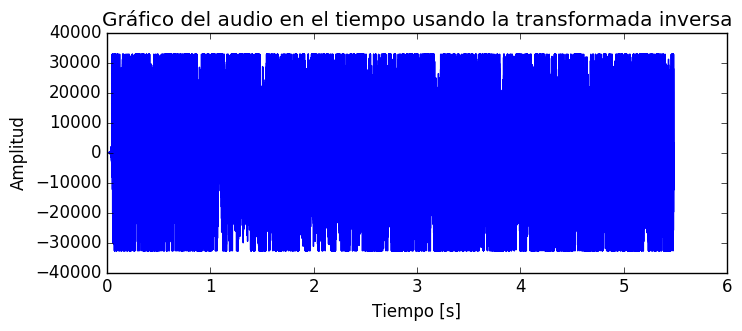
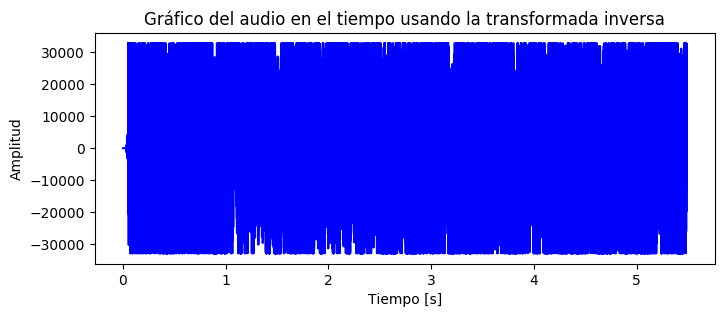
Finish adding comments, draw all figures using latest matplotlib versions

diff --git a/signal_conv.py b/signal_conv.py
@@ -1,4 +1,4 @@
-##### Importación de librería y funciones ########
+##### Importación de librería y funciones #####
 import numpy as np
 from scipy.io.wavfile import read, write
 from scipy.fftpack import fft, ifft
@@ -38,14 +38,14 @@ figureCounter = 0
 # Funcion que grafica los datos en ydata y xdata, y escribe los nombres del eje x, eje y,
 # y el titulo de una figura. Esta figura la guarda en un archivo con el nombre filename.
 # Entrada:
-#	filename - Nombre del archivo en donde se guarda la figura.
-#	title	 - Titulo de la figura.
-#	ylabel	 - Etiqueta del eje y.
-#	xlabel	 - Etiqueta del eje x.
-#	ydata	 - Datos del eje y.
-#	xdata	 - Datos del eje X, por defecto es un arreglo vacío que luego se cambia por un
-#			   arreglo desde 0 hasta largo de ydata - 1
-#	color	 - Color de la figura en el grafico, por defecto es azul (blue).
+#	filename	- Nombre del archivo en donde se guarda la figura.
+#	title		- Titulo de la figura.
+#	ylabel		- Etiqueta del eje y.
+#	xlabel		- Etiqueta del eje x.
+#	ydata		- Datos del eje y.
+#	xdata		- Datos del eje X, por defecto es un arreglo vacío que luego se cambia por un
+#				  arreglo desde 0 hasta largo de ydata - 1
+#	color		- Color de la figura en el grafico, por defecto es azul (blue).
 def graficar(filename, title, ylabel, xlabel, ydata, xdata=np.array([]), color='b'):
 	if xdata.size == 0:
 		xdata = np.arange(len(ydata))
@@ -58,6 +58,15 @@ def graficar(filename, title, ylabel, xlabel, ydata, xdata=np.array([]), color='
 	plt.savefig(filename, bbox_inches='tight')
 	plt.clf()
 
+# Funcion que usa el read de scipy.io.wavfile para abrir un archivo .wav y obtener la
+# frecuencia y la informacion del sonido, esta funcion ademas obtiene un vector de tiempo
+# dependiendo de la canidad de datos y la frecuencia del audio.
+# Entrada:
+# 	filename	- Nombre del archivo por abrir.
+# Salida:
+#	frecuencia	- Numero entero con la frecuencia de muestreo del audio en [Hz].
+#	datos		- Arreglo numpy con los datos obtenidos por la lectura del archivo.
+#	times		- Arreglo de floats con el tiempo en segundos para cada dato de 'datos'.
 def openWavFile(filename):
 	frecuencia, datos = read(filename)
 	n = len(datos)
@@ -65,6 +74,15 @@ def openWavFile(filename):
 	times = np.linspace(0, Ts, n) # Tiempo en segundos para cada dato de 'datos'
 	return (frecuencia, datos, times)
 
+# Funcion que hace uso de la tranformada de fourier, fft() y fftfreq(), para obtener la
+# secuencia de valores de los datos obtenidos del audio y para obtener las frecuencias
+# de muestreo (que depende de la frecuencia del audio y del largo del audio) respectivamente,
+# Entrada:
+#	data		- Datos obtenidos al leer el archivo de audio con scipy.
+#	frequency	- Numero entero con la frecuencia de muestreo del audio en [Hz].
+# Salida:
+#	fftValues	- Transformada de fourier normalizada para los valores en data.
+#	fftSamples	- Frecuencias de muestreo que dependen del largo del arreglo data y la frequency.
 def fourierTransform(data, frequency):
 	n = len(data)
 	Ts = n / frequency
@@ -73,6 +91,14 @@ def fourierTransform(data, frequency):
 
 	return (fftValues, fftSamples)
 
+# Funcion que trunca en 15% hacia la izquierda y derecha de la frecuencia con mayor amplitud en
+# un arreglo de valores con la transformada de fourier de un audio.
+# Entrada:
+#	fftValues	- Transformada de fourier normalizada para los valores obtenido al leer el archivo
+#				  de audio con scipy.
+# Salida:
+#	fftTruncada	- Transformada de fourier normalizada con los valores que se encuentran fuera del
+#				  margen de 15% seteados en 0.
 def truncateFft(fftValues):
 	n = len(fftValues)
 	maxFreqI = 0
@@ -106,9 +132,29 @@ def truncateFft(fftValues):
 
 	return fftTruncada
 
+# Funcion que retorna la transformada inversa de fourier de un arreglo de valores, se utiliza para
+# devolver la tranformada y la transformada truncada a una señal de audio.
+# Entrada:
+#	fftValues	- Transformada de fourier normalizada para los valores obtenido al leer el archivo
+#				  de audio con scipy.
+# Salida:
+#	fftValuesInverse - Transformada de fourier inversa denormalizada, se puede utilizar para escribir
+#					   un audio utilizando la funcion write de scipy.io.wavfile
 def fourierInverse(fftValues):
 	return ifft(fftValues)*len(fftValues)
 
+# Abre un archivo .wav y guarda los siguientes graficos en archivos .png:
+# 1- Gráfico de audio en el tiempo
+# 2- Gráfico del audio en el dominio de la frecuencia
+# 3- Gráfico del audio en el tiempo usando la transformada inversa
+# 4- Gráfico en el dominio de la frecuencia con fft truncada en un 15%
+# 5- Gráfico del audio en el tiempo usando la transformada truncada inversa
+# 
+# Tambien usa la inversa truncada para crear y guardar el archivo de audio resultante de
+# esta señal.
+# 
+# Entrada:
+#	filename	- Nombre del archivo con extension '.wav' que se quiere procesar.
 def processFile(filename):
 	global figureCounter
 	figureCounter += 1
